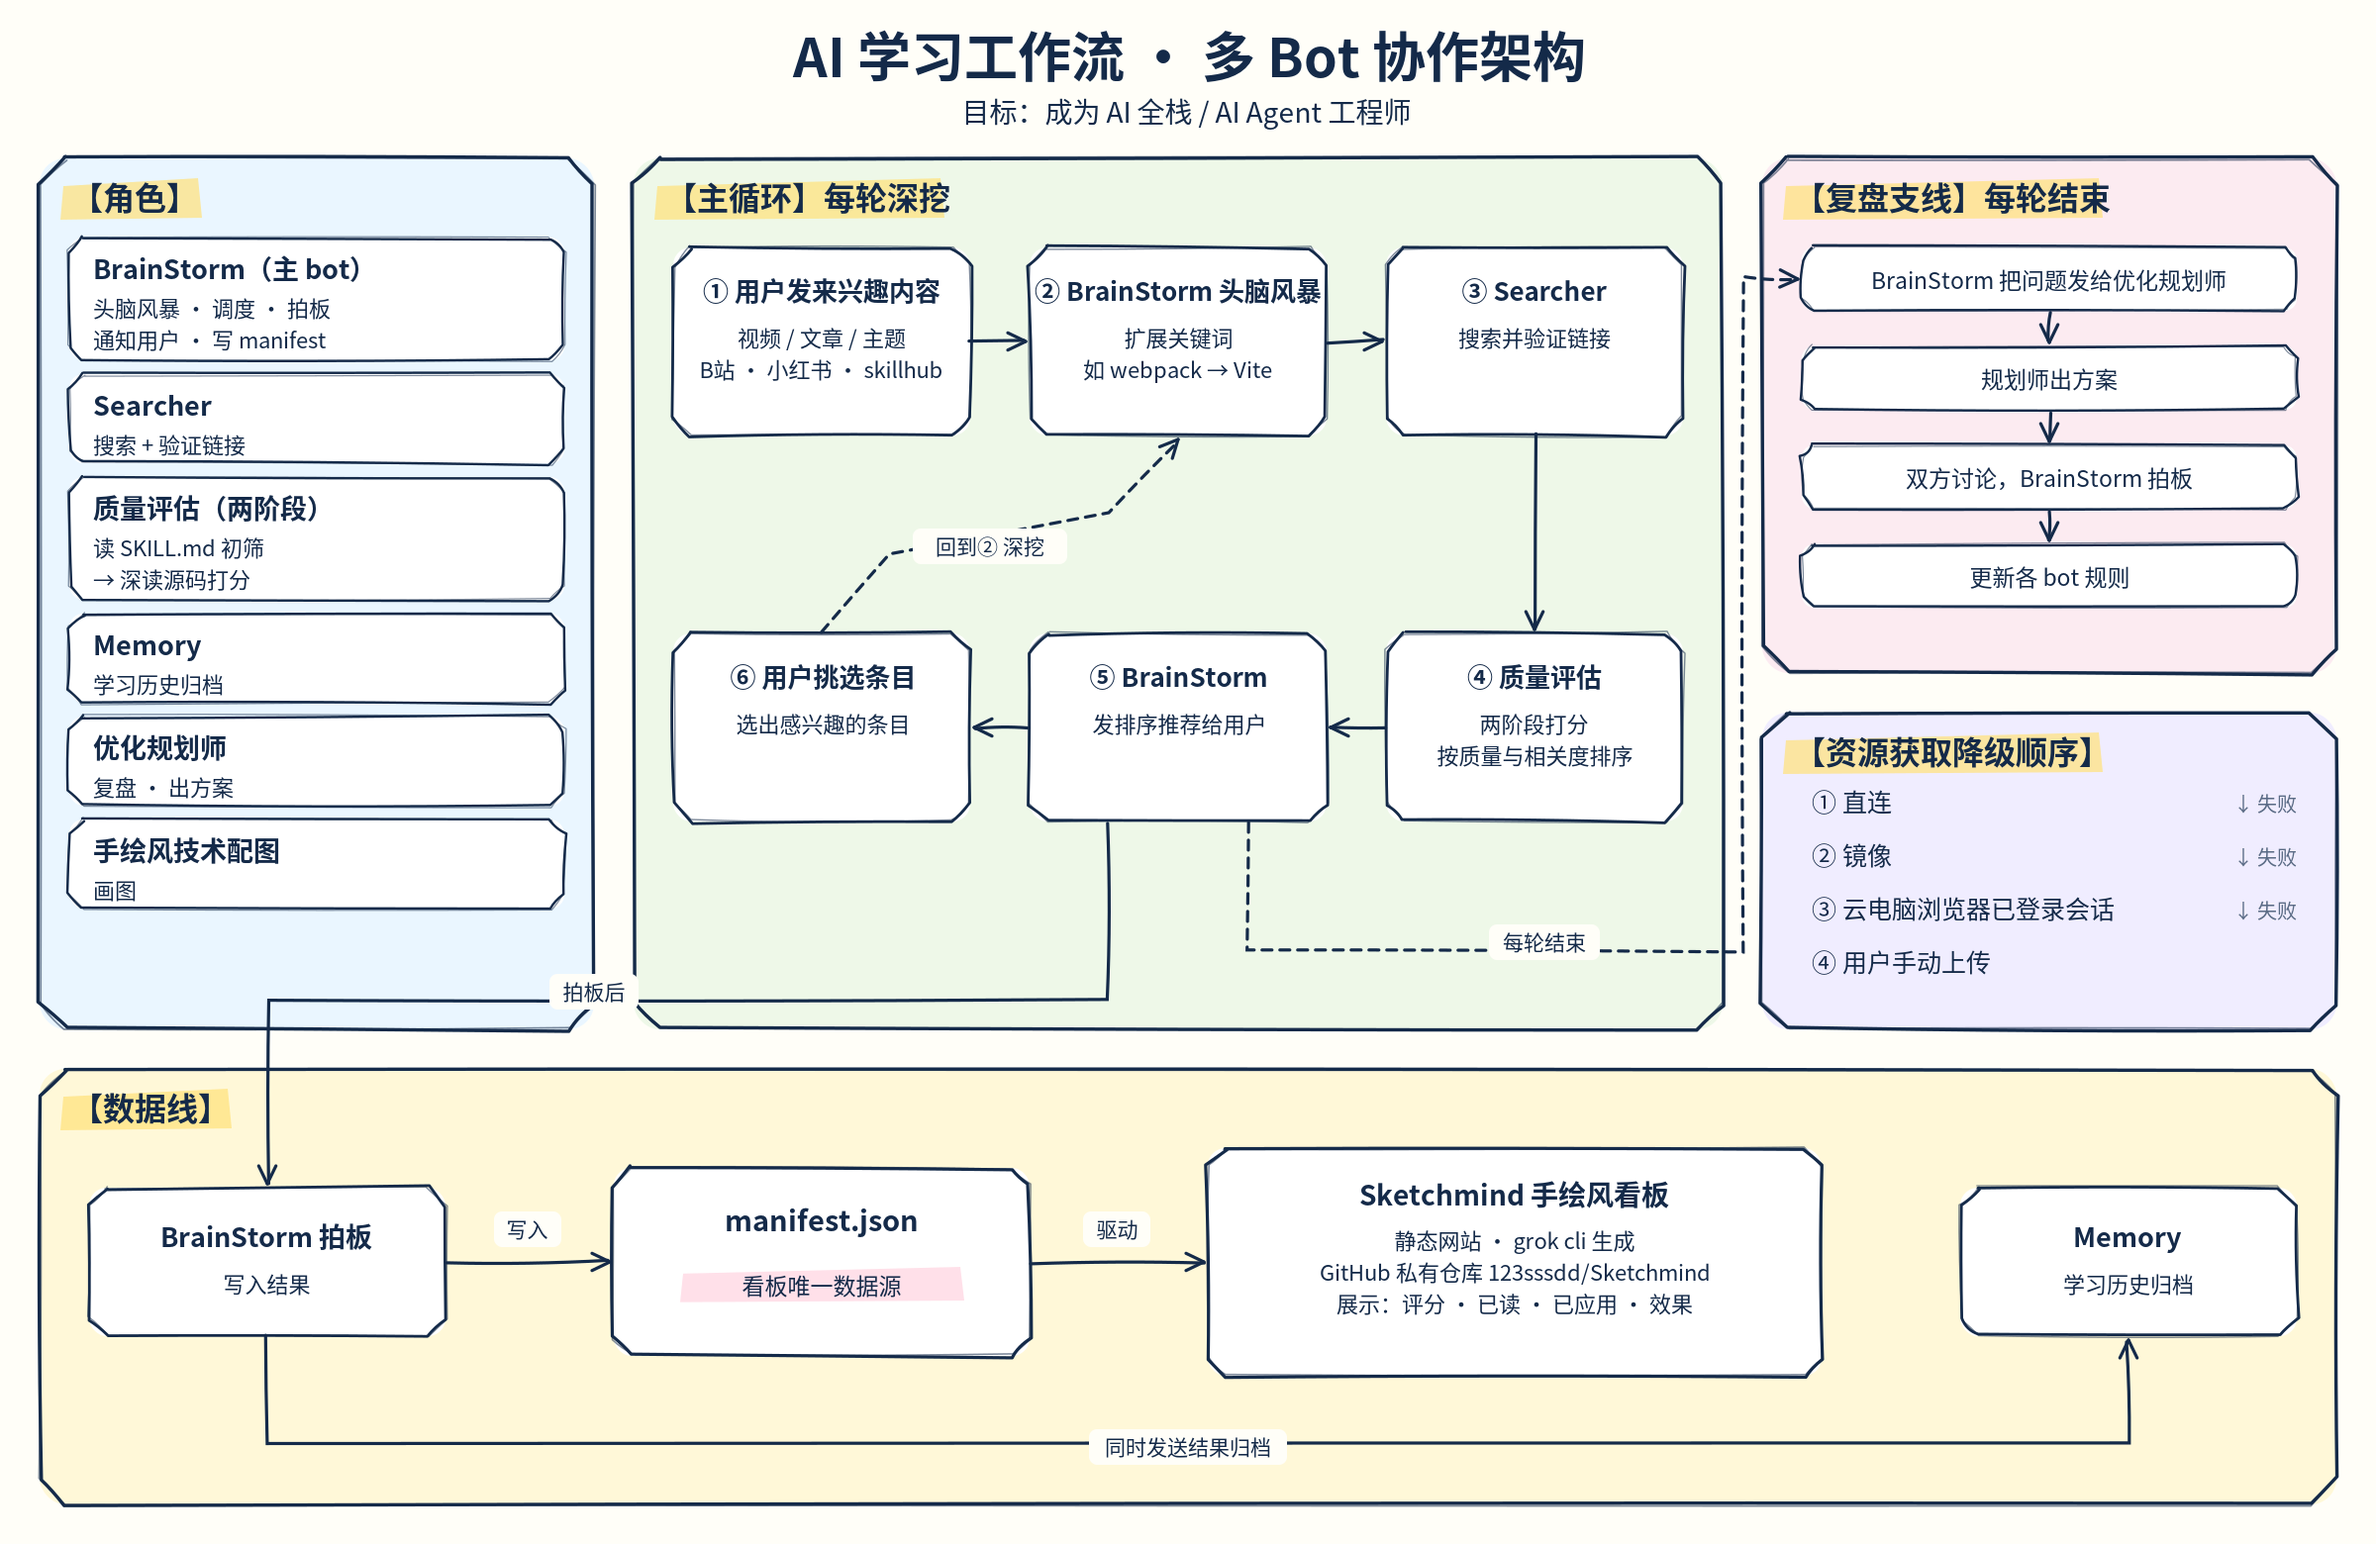
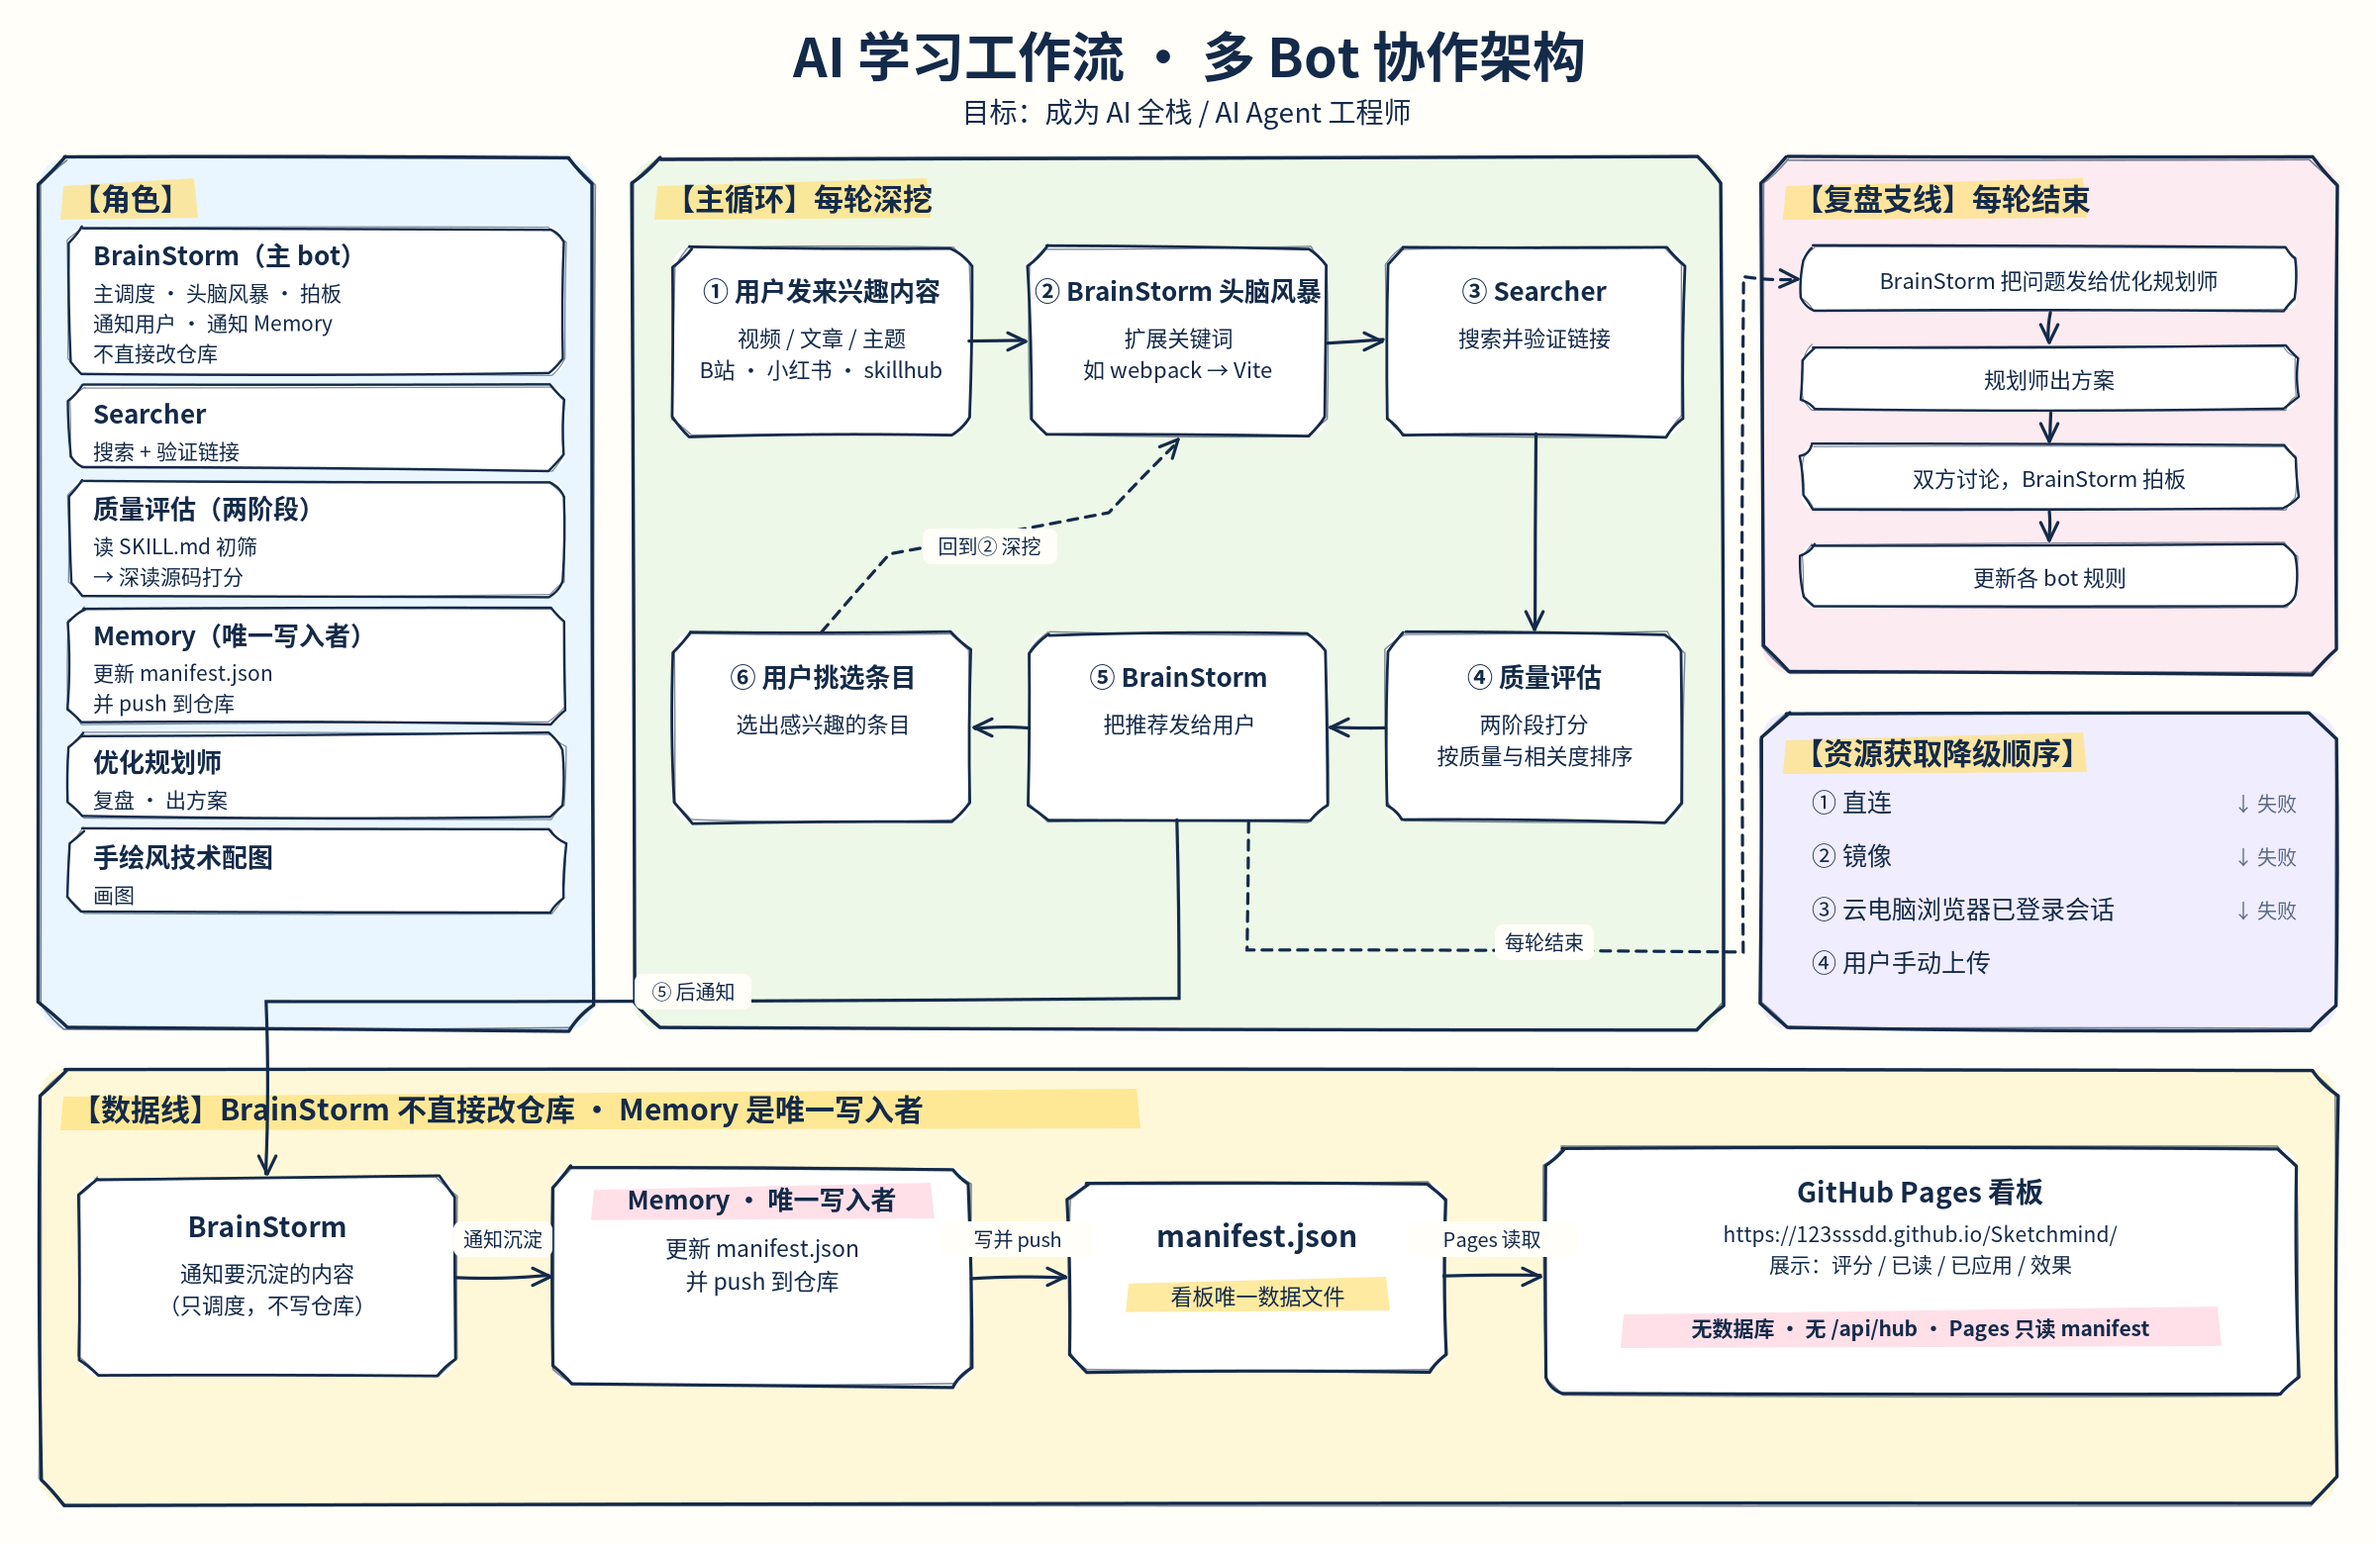
docs: update workflow diagram for Pages+Memory

diff --git a/docs/gen.py b/docs/gen.py
@@ -31,13 +31,13 @@ def arrow(pts,label=None,lx=None,ly=None,dash=None,sw=3.2):
     for s in(-1,1):
         o.append(f'<path d="M{x1} {y1} L{x1-L*math.cos(a+s*.45):.1f} {y1-L*math.sin(a+s*.45):.1f}" stroke="{INK}" stroke-width="{sw}" stroke-linecap="round"/>')
     if label:
-        tw=len(label)*22+24
+        tw=max(len(label)*18+28, 80)
         o.append(f'<rect x="{lx-tw/2}" y="{ly-26}" width="{tw}" height="36" rx="8" fill="#FFFEF8"/>')
-        text(lx,ly,label,21)
+        text(lx,ly,label,20)
 def zone(x,y,w,h,fill,title):
     box(x,y,w,h,fill,sw=3.4,r=26)
-    hl(x+24,y+20,len(title)*30+16,40)
-    text(x+32,y+52,title,32,700,"start")
+    hl(x+24,y+20,len(title)*28+20,40)
+    text(x+32,y+52,title,30,700,"start")
 
 # title
 text(W/2,78,"AI 学习工作流 · 多 Bot 协作架构",54,800)
@@ -45,35 +45,38 @@ text(W/2,124,"目标：成为 AI 全栈 / AI Agent 工程师",28)
 
 # Roles zone
 zone(40,160,560,880,B,"【角色】")
-roles=[("🧠","BrainStorm（主 bot）",["头脑风暴 · 调度 · 拍板","通知用户 · 写 manifest"]),
-("🔍","Searcher",["搜索 + 验证链接"]),
-("⚖","质量评估（两阶段）",["读 SKILL.md 初筛","→ 深读源码打分"]),
-("📚","Memory",["学习历史归档"]),
-("🛠","优化规划师",["复盘 · 出方案"]),
-("✏","手绘风技术配图",["画图"])]
-yy=240
-for ic,n,d in roles:
-    h=56+len(d)*34
+roles=[
+("BrainStorm（主 bot）",["主调度 · 头脑风暴 · 拍板","通知用户 · 通知 Memory","不直接改仓库"]),
+("Searcher",["搜索 + 验证链接"]),
+("质量评估（两阶段）",["读 SKILL.md 初筛","→ 深读源码打分"]),
+("Memory（唯一写入者）",["更新 manifest.json","并 push 到仓库"]),
+("优化规划师",["复盘 · 出方案"]),
+("手绘风技术配图",["画图"]),
+]
+yy=230
+for n,d in roles:
+    h=52+len(d)*32
     box(70,yy,500,h,"#FFFFFF",sw=2.4,r=14)
-    text(94,yy+42,n,27,700,"start")
-    lines(94,yy+80,d,22,anchor="start")
-    yy+=h+14
+    text(94,yy+38,n,26,700,"start")
+    lines(94,yy+74,d,21,anchor="start")
+    yy+=h+12
 
 # Main loop zone
 zone(640,160,1100,880,G,"【主循环】每轮深挖")
-steps=[("①","用户发来兴趣内容",["视频 / 文章 / 主题","B站 · 小红书 · skillhub"]),
+steps=[
+("①","用户发来兴趣内容",["视频 / 文章 / 主题","B站 · 小红书 · skillhub"]),
 ("②","BrainStorm 头脑风暴",["扩展关键词","如 webpack → Vite"]),
 ("③","Searcher",["搜索并验证链接"]),
 ("④","质量评估",["两阶段打分","按质量与相关度排序"]),
-("⑤","BrainStorm",["发排序推荐给用户"]),
-("⑥","用户挑选条目",["选出感兴趣的条目"])]
+("⑤","BrainStorm",["把推荐发给用户"]),
+("⑥","用户挑选条目",["选出感兴趣的条目"]),
+]
 bw,bh=300,190
 pos={0:(680,250),1:(1040,250),2:(1400,250),3:(1400,640),4:(1040,640),5:(680,640)}
 for i,(n,t,d) in enumerate(steps):
     x,y=pos[i]; box(x,y,bw,bh,"#FFFFFF",sw=2.8)
     text(x+bw/2,y+54,n+" "+t,26,700)
     lines(x+bw/2,y+100,d,22)
-c=lambda i:pos[i]
 arrow([(980,345),(1036,345)])
 arrow([(1340,345),(1396,345)])
 arrow([(1550,440),(1550,636)])
@@ -87,9 +90,10 @@ zone(1780,160,580,520,P,"【复盘支线】每轮结束")
 rv=["BrainStorm 把问题发给优化规划师","规划师出方案","双方讨论，BrainStorm 拍板","更新各 bot 规则"]
 ry=250
 for i,s in enumerate(rv):
-    box(1820,ry,500,64,"#FFFFFF",sw=2.4,r=12); text(2070,ry+42,s,23)
+    box(1820,ry,500,64,"#FFFFFF",sw=2.4,r=12); text(2070,ry+42,s,22)
     if i<3: arrow([(2070,ry+66),(2070,ry+96)])
     ry+=100
+# from step 5 bottom toward review
 arrow([(1260,830),(1260,960),(1760,960),(1760,280),(1816,282)],"每轮结束",1560,960,dash="10 8")
 
 # Fallback
@@ -99,19 +103,45 @@ for i,s in enumerate(fb):
     text(1830,820+i*54,s,25,anchor="start")
     if i<3: text(2320,820+i*54,"↓ 失败",20,anchor="end",color="#5A6B85")
 
-# Data line
-zone(40,1080,2320,440,Y,"【数据线】")
-box(90,1200,360,150,"#FFFFFF",sw=2.8); text(270,1260,"BrainStorm 拍板",27,700); text(270,1306,"写入结果",22)
-box(620,1180,420,190,"#FFFFFF",sw=3.2); text(830,1244,"manifest.json",29,700); hl(690,1280,280,34,"#FFD3E0"); text(830,1308,"看板唯一数据源",23)
-box(1220,1160,620,230,"#FFFFFF",sw=3.2); text(1530,1218,"Sketchmind 手绘风看板",28,700)
-lines(1530,1262,["静态网站 · grok cli 生成","GitHub 私有仓库 123sssdd/Sketchmind","展示：评分 · 已读 · 已应用 · 效果"],22)
-box(1980,1200,340,150,"#FFFFFF",sw=2.8); text(2150,1260,"Memory",27,700); text(2150,1306,"学习历史归档",22)
-arrow([(450,1275),(616,1275)],"写入",533,1250)
-arrow([(1040,1275),(1216,1275)],"驱动",1128,1250)
-arrow([(270,1350),(270,1460),(2150,1460),(2150,1354)],"同时发送结果归档",1200,1470)
-# main loop -> data
-arrow([(1120,830),(1120,1010),(270,1010),(270,1196)],"拍板后",600,1010)
+# Data line — KEY CHANGES
+zone(40,1080,2320,440,Y,"【数据线】BrainStorm 不直接改仓库 · Memory 是唯一写入者")
+
+# BrainStorm notify
+box(80,1190,380,200,"#FFFFFF",sw=2.8)
+text(270,1250,"BrainStorm",28,700)
+lines(270,1295,["通知要沉淀的内容","（只调度，不写仓库）"],22)
+
+# Memory write
+box(560,1180,420,220,"#FFFFFF",sw=3.2)
+hl(600,1195,340,36,"#FFD3E0")
+text(770,1222,"Memory · 唯一写入者",26,700)
+lines(770,1270,["更新 manifest.json","并 push 到仓库"],23)
+
+# manifest.json
+box(1080,1195,380,190,"#FFFFFF",sw=3.2)
+text(1270,1260,"manifest.json",30,700)
+hl(1140,1290,260,34,"#FFE27A")
+text(1270,1318,"看板唯一数据文件",22)
+
+# GitHub Pages board
+box(1560,1160,760,250,"#FFFFFF",sw=3.2)
+text(1940,1215,"GitHub Pages 看板",28,700)
+lines(1940,1255,[
+    "https://123sssdd.github.io/Sketchmind/",
+    "展示：评分 / 已读 / 已应用 / 效果",
+],21)
+hl(1640,1320,600,40,"#FFD3E0")
+text(1940,1350,"无数据库 · 无 /api/hub · Pages 只读 manifest",21,700)
+
+# arrows in data line
+arrow([(460,1290),(556,1290)],"通知沉淀",508,1260)
+arrow([(980,1290),(1076,1290)],"写并 push",1028,1260)
+arrow([(1460,1290),(1556,1290)],"Pages 读取",1508,1260)
+
+# main loop -> data (from ⑤)
+arrow([(1190,830),(1190,1010),(270,1010),(270,1186)],"⑤ 后通知",700,1010)
 
 svg=f'<svg xmlns="http://www.w3.org/2000/svg" width="{W}" height="{H}" viewBox="0 0 {W} {H}"><rect width="100%" height="100%" fill="#FFFEF8"/>'+"\n".join(o)+'</svg>'
 open("learning-workflow.svg","w").write(svg)
 cairosvg.svg2png(bytestring=svg.encode(),write_to="learning-workflow.png")
+print("ok", len(svg))
